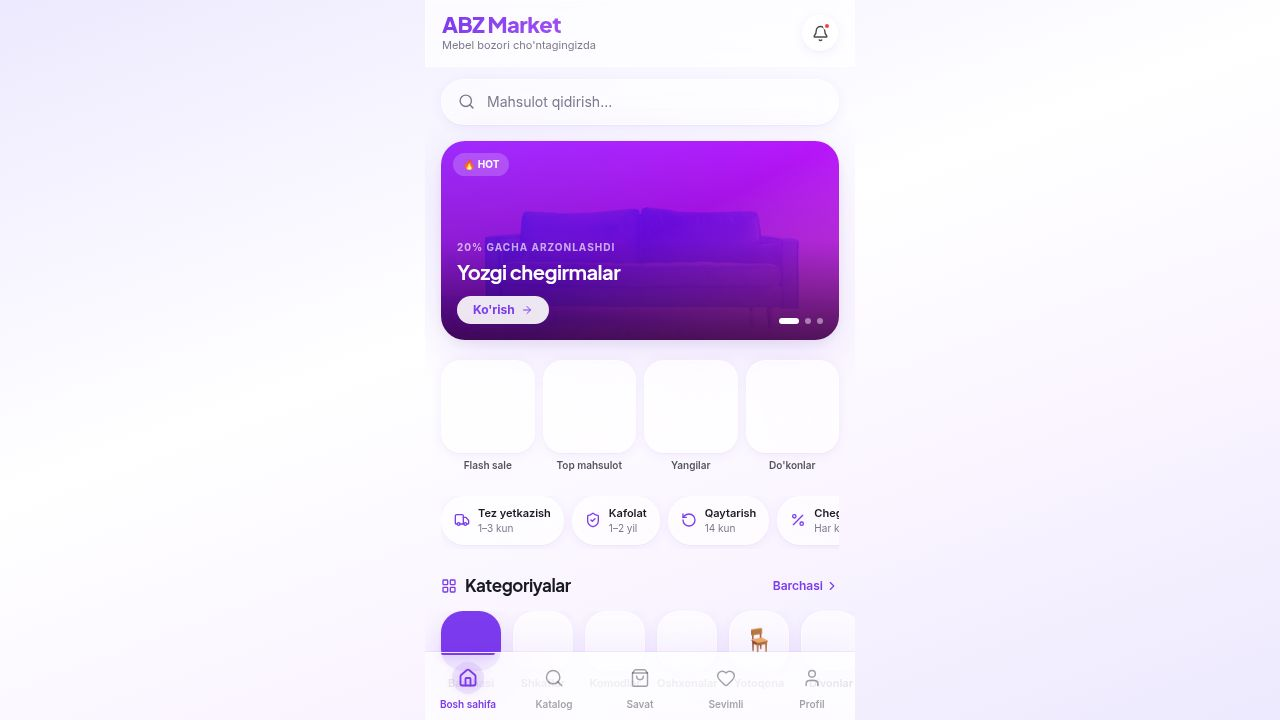
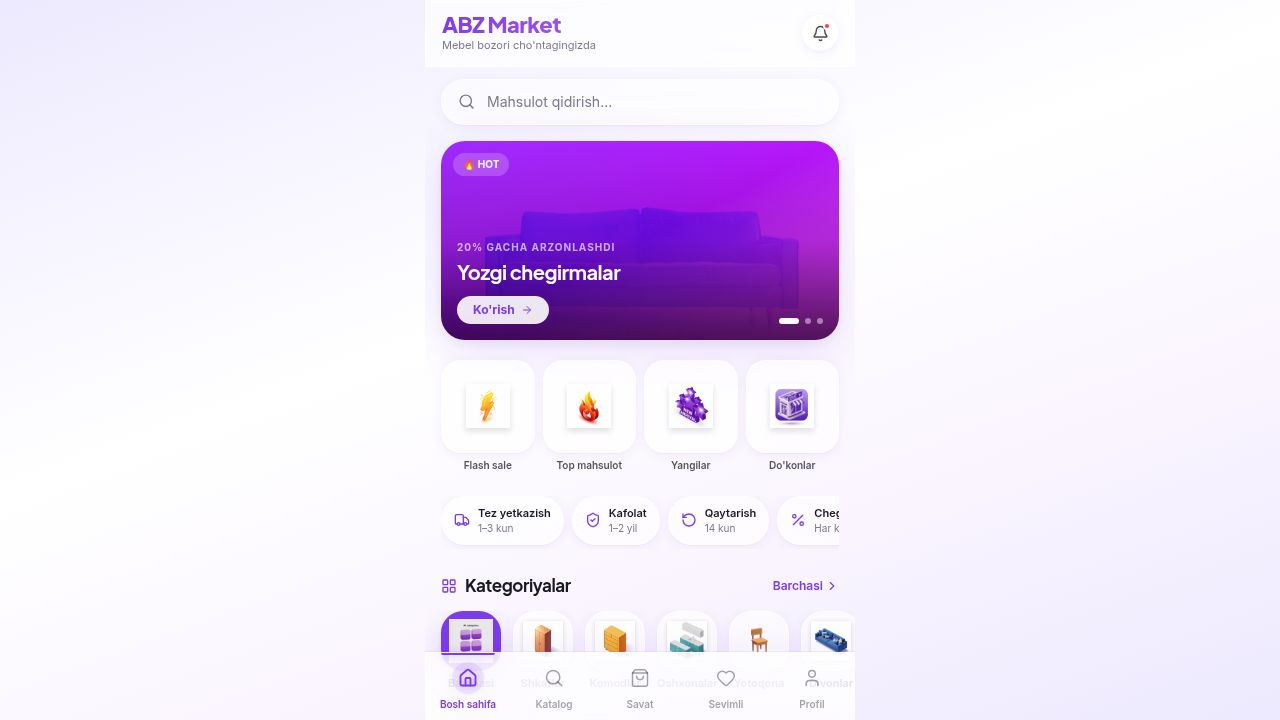
Allow customers to see their own orders and fix admin panel display issues
Fixes proxy configurations, removes mock data fallbacks, adds telegramId to orders, and improves order display and error handling for both admin and customer panels.

Replit-Commit-Author: Agent
Replit-Commit-Session-Id: 1c0ea9a3-5d64-4333-b71e-e616093b1210
Replit-Commit-Checkpoint-Type: full_checkpoint
Replit-Commit-Event-Id: 29938d5e-8324-4e34-b3fb-dc07fa4851f6
Replit-Commit-Screenshot-Url: https://storage.googleapis.com/screenshot-production-us-central1/ebb8b644-f195-4e7e-bf8f-f6d94fcad19d/1c0ea9a3-5d64-4333-b71e-e616093b1210/yQ3zXC1
Replit-Helium-Checkpoint-Created: true

diff --git a/artifacts/abz-market/src/pages/orders.tsx b/artifacts/abz-market/src/pages/orders.tsx
@@ -1,20 +1,40 @@
-import { useState } from "react";
+import { useState, useMemo } from "react";
 import { MobileLayout } from "@/components/layout/MobileLayout";
 import { useOrders } from "@/hooks/use-api";
 import { formatPrice, getStatusColor, getStatusLabel } from "@/lib/utils";
-import { PackageOpen, Clock, ChevronRight } from "lucide-react";
+import { PackageOpen, Clock, ChevronRight, AlertCircle } from "lucide-react";
 import { format } from "date-fns";
 import { Link } from "wouter";
 
+function getTelegramId(): string | undefined {
+  try {
+    const tg = (window as any).Telegram?.WebApp;
+    const id = tg?.initDataUnsafe?.user?.id;
+    if (id) return String(id);
+    return localStorage.getItem("tg_user_id") ?? undefined;
+  } catch { return undefined; }
+}
+
 export default function Orders() {
   const [activeTab, setActiveTab] = useState<string>("all");
-  const { data, isLoading } = useOrders(activeTab !== "all" ? { status: activeTab as any } : undefined);
+  const telegramId = useMemo(() => getTelegramId(), []);
+
+  const params = useMemo(() => {
+    const p: Record<string, string> = {};
+    if (activeTab !== "all") p.status = activeTab;
+    if (telegramId) p.telegramId = telegramId;
+    return Object.keys(p).length > 0 ? p : undefined;
+  }, [activeTab, telegramId]);
+
+  const { data, isLoading, isError } = useOrders(params as any);
 
   const tabs = [
-    { id: "all", label: "Barchasi" },
-    { id: "new", label: "Yangi" },
+    { id: "all",      label: "Barchasi" },
+    { id: "new",      label: "Yangi" },
     { id: "accepted", label: "Jarayonda" },
-    { id: "shipped", label: "Yuborilgan" }
+    { id: "shipped",  label: "Yuborilgan" },
+    { id: "delivered",label: "Yetkazildi" },
+    { id: "cancelled",label: "Bekor" },
   ];
 
   return (
@@ -26,8 +46,8 @@ export default function Orders() {
               key={tab.id}
               onClick={() => setActiveTab(tab.id)}
               className={`px-4 py-2 rounded-full text-sm font-medium whitespace-nowrap transition-colors border ${
-                activeTab === tab.id 
-                  ? "bg-primary text-primary-foreground border-primary" 
+                activeTab === tab.id
+                  ? "bg-primary text-primary-foreground border-primary"
                   : "bg-background text-muted-foreground border-border hover:bg-secondary"
               }`}
             >
@@ -40,9 +60,19 @@ export default function Orders() {
       <div className="p-4 space-y-4">
         {isLoading ? (
           <div className="space-y-4">
-            {[1,2,3].map(i => <div key={i} className="h-40 bg-secondary animate-pulse rounded-2xl" />)}
+            {[1, 2, 3].map(i => (
+              <div key={i} className="h-40 bg-secondary animate-pulse rounded-2xl" />
+            ))}
           </div>
-        ) : data?.orders.length === 0 ? (
+        ) : isError ? (
+          <div className="text-center py-20">
+            <div className="w-16 h-16 bg-red-50 rounded-full flex items-center justify-center mx-auto mb-4">
+              <AlertCircle className="w-8 h-8 text-red-400" />
+            </div>
+            <h3 className="font-semibold text-lg">Xato yuz berdi</h3>
+            <p className="text-sm text-muted-foreground mt-1">Buyurtmalarni yuklashda muammo</p>
+          </div>
+        ) : !data?.orders || data.orders.length === 0 ? (
           <div className="text-center py-20">
             <div className="w-16 h-16 bg-secondary rounded-full flex items-center justify-center mx-auto mb-4">
               <PackageOpen className="w-8 h-8 text-muted-foreground" />
@@ -51,12 +81,16 @@ export default function Orders() {
             <p className="text-sm text-muted-foreground mt-1">Hali hech narsa xarid qilmadingiz</p>
           </div>
         ) : (
-          data?.orders.map(order => (
-            <Link key={order.id} href={`/order/${order.id}`} className="block tap-highlight-transparent active:scale-[0.98] transition-transform">
+          data.orders.map(order => (
+            <Link
+              key={order.id}
+              href={`/order/${order.id}`}
+              className="block tap-highlight-transparent active:scale-[0.98] transition-transform"
+            >
               <div className="bg-card border border-border/50 rounded-2xl p-4 shadow-sm">
                 <div className="flex justify-between items-center mb-3 pb-3 border-b border-border/50">
                   <div>
-                    <p className="text-xs text-muted-foreground mb-0.5">#{order.orderNumber}</p>
+                    <p className="text-xs text-muted-foreground mb-0.5">{order.orderNumber}</p>
                     <div className="flex items-center gap-1.5 text-xs text-muted-foreground">
                       <Clock className="w-3.5 h-3.5" />
                       {format(new Date(order.createdAt), "dd MMM, HH:mm")}
@@ -69,9 +103,13 @@ export default function Orders() {
 
                 <div className="flex items-center gap-3 mb-4">
                   <div className="flex -space-x-4">
-                    {order.items.slice(0, 3).map((item, i) => (
+                    {order.items.slice(0, 3).map((item: any, i: number) => (
                       <div key={i} className="w-12 h-12 rounded-full border-2 border-background overflow-hidden bg-muted relative z-10">
-                        <img src={item.productImage || 'https://images.unsplash.com/photo-1555041469-a586c61ea9bc?w=100&q=80'} className="w-full h-full object-cover" alt="" />
+                        <img
+                          src={item.productImage || "https://images.unsplash.com/photo-1555041469-a586c61ea9bc?w=100&q=80"}
+                          className="w-full h-full object-cover"
+                          alt=""
+                        />
                       </div>
                     ))}
                     {order.items.length > 3 && (
@@ -82,8 +120,11 @@ export default function Orders() {
                   </div>
                   <div className="flex-1">
                     <p className="font-semibold text-sm line-clamp-1">{order.items[0]?.productName}</p>
-                    {order.items.length > 1 && <p className="text-xs text-muted-foreground">va yana {order.items.length - 1} ta mahsulot</p>}
+                    {order.items.length > 1 && (
+                      <p className="text-xs text-muted-foreground">va yana {order.items.length - 1} ta mahsulot</p>
+                    )}
                   </div>
+                  <ChevronRight className="w-4 h-4 text-muted-foreground shrink-0" />
                 </div>
 
                 <div className="flex justify-between items-center bg-secondary/30 rounded-xl p-3">

diff --git a/artifacts/abz-market/src/hooks/use-api.ts b/artifacts/abz-market/src/hooks/use-api.ts
@@ -68,16 +68,9 @@ export function useOrders(params?: GetOrdersParams) {
   return useQuery({
     queryKey: ['/api/orders', params],
     queryFn: async () => {
-      try {
-        const data = await getOrders(params);
-        if (data && data.orders) return data;
-        throw new Error("Invalid response");
-      } catch (e) {
-        console.warn("Using mock orders");
-        let filtered = [...mockOrders];
-        if (params?.status) filtered = filtered.filter(o => o.status === params.status);
-        return { orders: filtered };
-      }
+      const data = await getOrders(params);
+      if (data && data.orders) return data;
+      return { orders: [] };
     }
   });
 }
@@ -151,12 +144,7 @@ export function useSubmitOrder() {
   const queryClient = useQueryClient();
   return useMutation({
     mutationFn: async (data: CreateOrderRequest) => {
-      try {
-        return await createOrder(data);
-      } catch (e) {
-        // Mock successful creation
-        return new Promise(resolve => setTimeout(() => resolve(mockOrders[0]), 1000));
-      }
+      return await createOrder(data);
     },
     onSuccess: () => {
       queryClient.invalidateQueries({ queryKey: ['/api/orders'] });

diff --git a/artifacts/abz-market/src/pages/checkout.tsx b/artifacts/abz-market/src/pages/checkout.tsx
@@ -117,11 +117,25 @@ export default function Checkout() {
 
   const paymentMethod = watch("paymentMethod");
 
+  const getTelegramId = (): string | undefined => {
+    try {
+      const tg = (window as any).Telegram?.WebApp;
+      const id = tg?.initDataUnsafe?.user?.id;
+      if (id) return String(id);
+      const stored = localStorage.getItem("tg_user_id");
+      return stored ?? undefined;
+    } catch { return undefined; }
+  };
+
+  const [submitError, setSubmitError] = useState<string | null>(null);
+
   const onSubmit = async (data: CheckoutForm) => {
     if (items.length === 0) return;
+    setSubmitError(null);
     try {
       await createOrder.mutateAsync({
         ...data,
+        telegramId: getTelegramId(),
         items: items.map((i) => ({
           productId:    i.product.id,
           quantity:     i.quantity,
@@ -132,6 +146,7 @@ export default function Checkout() {
       navigate("/orders");
     } catch (error) {
       console.error("Order error", error);
+      setSubmitError("Buyurtma berishda xato yuz berdi. Iltimos qayta urining.");
     }
   };
 
@@ -290,6 +305,11 @@ export default function Checkout() {
 
       {/* Fixed bottom bar */}
       <div className="fixed bottom-0 left-0 right-0 max-w-[430px] mx-auto glass border-t border-white/30 p-4 pb-safe z-50">
+        {submitError && (
+          <div className="mb-2 bg-red-50 border border-red-200 rounded-xl px-3 py-2 text-xs text-red-700 font-medium">
+            ⚠️ {submitError}
+          </div>
+        )}
         <Button
           type="submit"
           form="checkout-form"

diff --git a/artifacts/abz-market/vite.config.ts b/artifacts/abz-market/vite.config.ts
@@ -62,6 +62,12 @@ export default defineConfig({
     port,
     host: "0.0.0.0",
     allowedHosts: true,
+    proxy: {
+      "/api": {
+        target: "http://localhost:8080",
+        changeOrigin: true,
+      },
+    },
     fs: {
       strict: true,
       deny: ["**/.*"],

diff --git a/artifacts/admin/vite.config.ts b/artifacts/admin/vite.config.ts
@@ -62,6 +62,12 @@ export default defineConfig({
     port,
     host: "0.0.0.0",
     allowedHosts: true,
+    proxy: {
+      "/api": {
+        target: "http://localhost:8080",
+        changeOrigin: true,
+      },
+    },
     fs: {
       strict: true,
       deny: ["**/.*"],

diff --git a/artifacts/api-server/src/routes/orders.ts b/artifacts/api-server/src/routes/orders.ts
@@ -17,10 +17,11 @@ function generateOrderNumber(): string {
 
 router.get("/orders", async (req, res) => {
   try {
-    const { status } = req.query as Record<string, string>;
+    const { status, telegramId } = req.query as Record<string, string>;
 
     const conditions = [];
     if (status) conditions.push(eq(ordersTable.status, status));
+    if (telegramId) conditions.push(eq(ordersTable.telegramId, telegramId));
 
     const orders = await db
       .select({
@@ -90,6 +91,7 @@ router.post("/orders", async (req, res) => {
         paymentMethod: body.paymentMethod,
         totalPrice: totalPrice.toString(),
         storeId,
+        telegramId: body.telegramId ?? null,
       })
       .returning();
 

diff --git a/lib/db/src/schema/products.ts b/lib/db/src/schema/products.ts
@@ -77,6 +77,7 @@ export const ordersTable = pgTable("orders", {
   paymentMethod: text("payment_method").notNull().default("cash"),
   totalPrice: numeric("total_price", { precision: 15, scale: 2 }).notNull(),
   storeId: uuid("store_id").references(() => storesTable.id),
+  telegramId: text("telegram_id"),
   createdAt: timestamp("created_at").defaultNow(),
 });
 